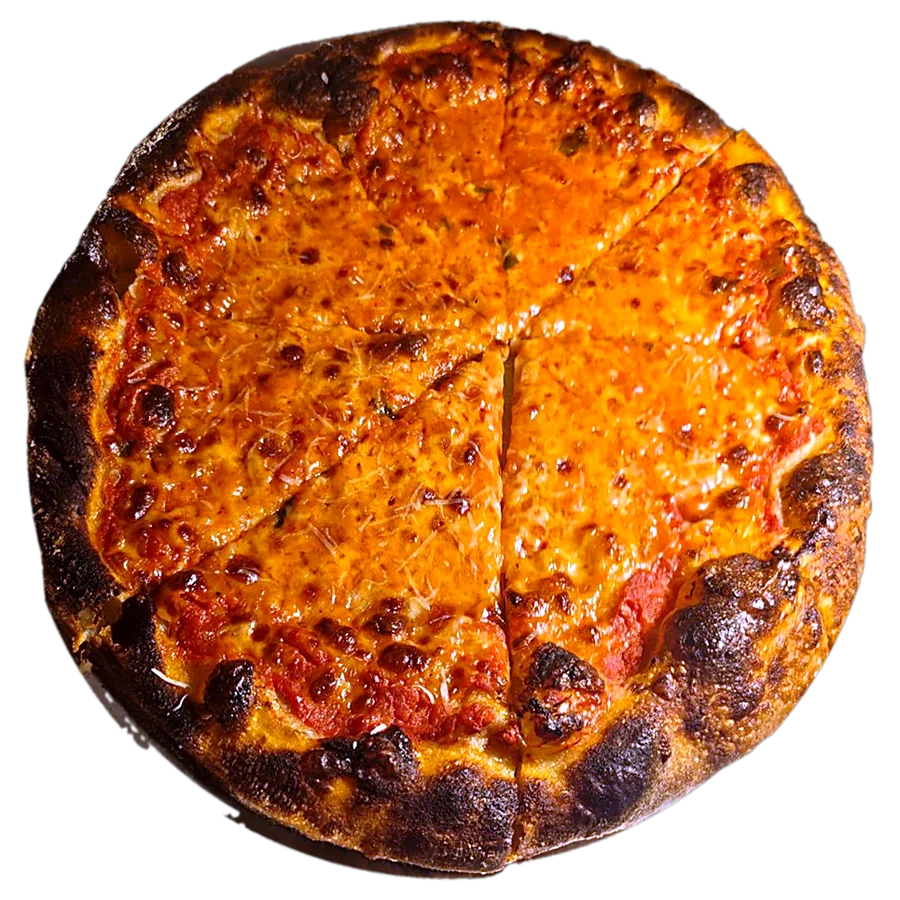
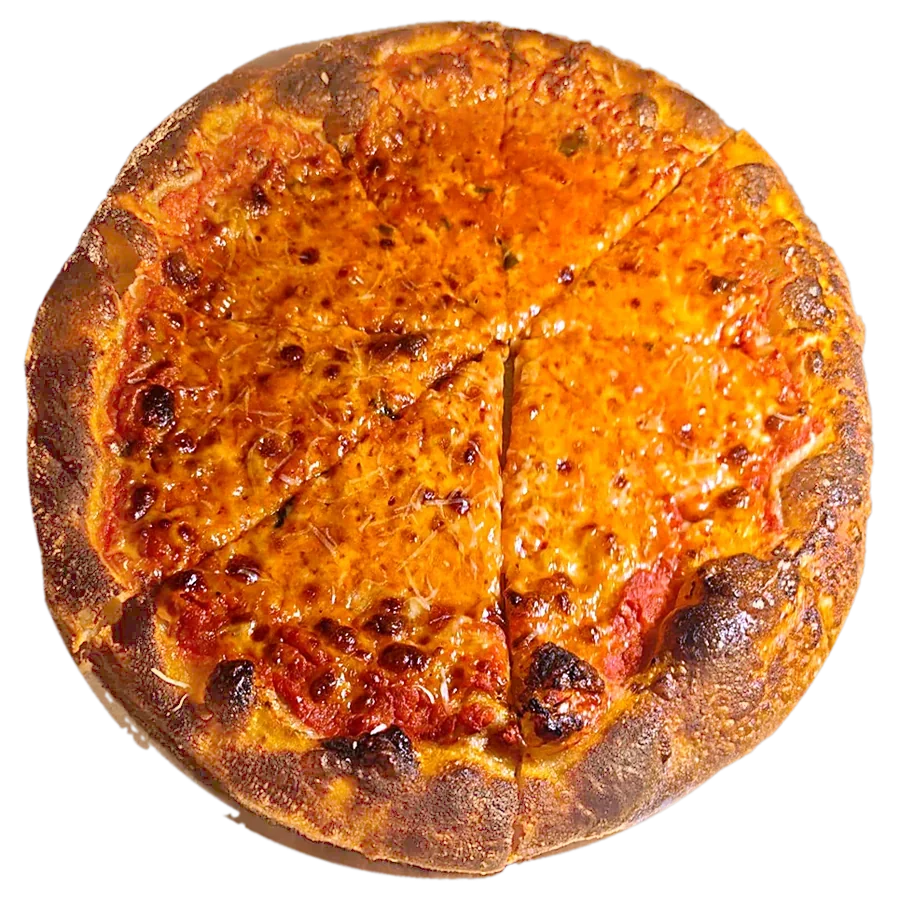
Hero pizza: retouch charred crust to golden brown (original kept in images/originals)

Changed region(s): [[0.0311, 0.0, 0.9956, 0.9956], [0.9333, 0.6222, 0.9644, 0.6844], [0.9022, 0.6844, 0.9333, 0.7467]]

diff --git a/index.html b/index.html
@@ -245,7 +245,7 @@ footer .wrap a:hover{color:var(--ink)}
         </div>
       </div>
       <figure>
-        <img src="images/pizza-classic.webp" alt="The Classic pie" width="900" height="900">
+        <img src="images/pizza-classic.webp?v=2" alt="The Classic pie" width="900" height="900">
       </figure>
     </div>
   </div>
